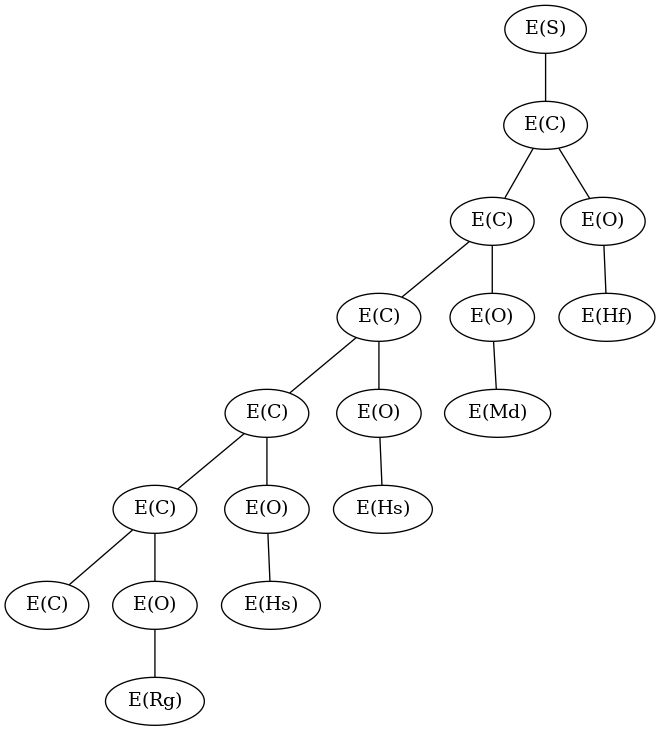
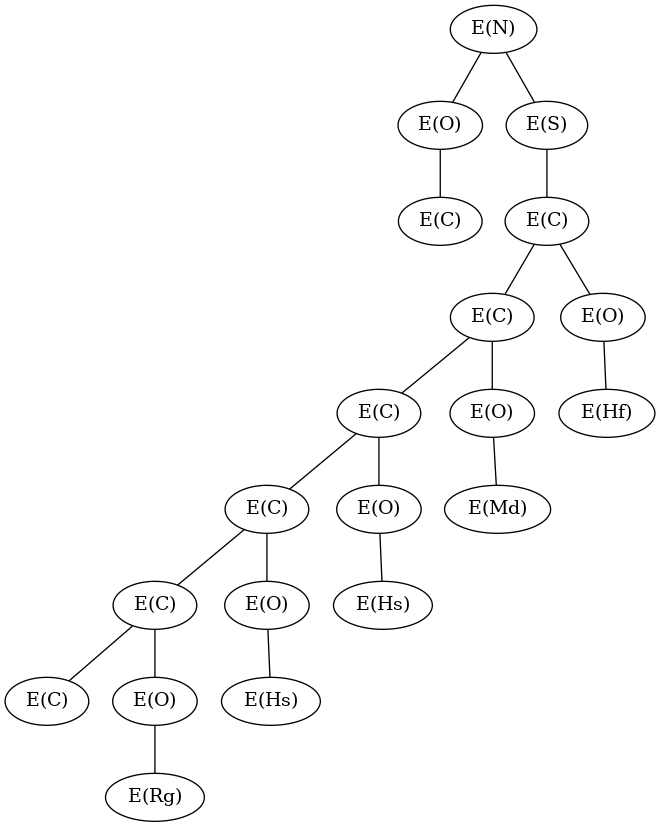
eval: add amine/pair

diff --git a/src/eval/functional_groups.rs b/src/eval/functional_groups.rs
@@ -1,9 +1,10 @@
+pub mod amine;
 pub mod borinic;
 pub mod ether;
 pub mod sulfide;
 
 use self::sulfide::Sulfide;
-use self::{borinic::BorinicAcid, ether::Ether};
+use self::{amine::Amine, borinic::BorinicAcid, ether::Ether};
 
 use super::alkane::Alkane;
 use super::atom_like::AtomLike;
@@ -11,6 +12,21 @@ use super::atoms::{AtomGraph, Atoms};
 use super::element::Element;
 use super::molecule::Molecule;
 use super::value::{Valuable, Value, Weighable};
+use petgraph::stable_graph::{EdgeIndex, NodeIndex};
+
+pub enum FgElement {
+    E(Element),
+    F(FunctionalGroup),
+}
+
+impl FgElement {
+    pub fn as_molecule(&self) -> Molecule {
+        match self {
+            FgElement::E(e) => Molecule::E(e.to_owned()),
+            FgElement::F(f) => Molecule::Fg(f.to_owned()),
+        }
+    }
+}
 
 #[derive(Debug, Clone)]
 pub enum FunctionalGroup {
@@ -18,43 +34,47 @@ pub enum FunctionalGroup {
     Ether(Ether),
     BorinicAcid(BorinicAcid),
     Sulfide(Sulfide),
-    Amine(Atoms),
+    Amine(Amine),
 }
-use petgraph::stable_graph::{EdgeIndex, NodeIndex};
 
 impl FunctionalGroup {
     pub fn new_alkane() -> Self {
         let alkane = Alkane::new();
         Self::Alkane(alkane)
     }
-    pub fn new_ether(r: Molecule) -> Self {
+    pub fn new_ether(r: FgElement) -> Self {
         let mut atoms = Atoms::new();
         let o = atoms.add_node(Molecule::E(Element::O));
-        let r_ = atoms.add_node(r);
-        atoms.add_edge(o, r_);
+        let r = atoms.add_node(r.as_molecule());
+        atoms.add_edge(o, r);
         Self::Ether(Ether(atoms))
     }
-    pub fn new_borinic_acid(r: Molecule) -> Self {
+    pub fn new_borinic_acid(r: FgElement) -> Self {
         let mut atoms = Atoms::new();
         let b = atoms.add_node(Molecule::E(Element::B));
         let o = atoms.add_node(Molecule::E(Element::O));
         let h = atoms.add_node(Molecule::E(Element::H));
-        let r_ = atoms.add_node(r);
+        let r = atoms.add_node(r.as_molecule());
         atoms.add_edge(b, o);
         atoms.add_edge(o, h);
-        atoms.add_edge(b, r_);
+        atoms.add_edge(b, r);
         Self::BorinicAcid(BorinicAcid(atoms))
     }
-    pub fn new_sulfide(r: Molecule) -> Self {
+    pub fn new_sulfide(r: FgElement) -> Self {
         let mut atoms = Atoms::new();
         let s = atoms.add_node(Molecule::E(Element::S));
-        let r_ = atoms.add_node(r);
-        atoms.add_edge(s, r_);
+        let r = atoms.add_node(r.as_molecule());
+        atoms.add_edge(s, r);
         Self::Sulfide(Sulfide(atoms))
     }
-    pub fn new_amine() -> Self {
-        let amine = Atoms::new();
-        Self::Amine(amine)
+    pub fn new_amine(r1: FgElement, r2: FgElement) -> Self {
+        let mut atoms = Atoms::new();
+        let n = atoms.add_node(Molecule::E(Element::N));
+        let r1 = atoms.add_node(r1.as_molecule());
+        let r2 = atoms.add_node(r2.as_molecule());
+        atoms.add_edge(n, r1);
+        atoms.add_edge(n, r2);
+        Self::Amine(Amine(atoms))
     }
 
     fn unwrap(&self) -> &AtomGraph {
@@ -62,7 +82,7 @@ impl FunctionalGroup {
             Self::Ether(a) => a.0.atoms(),
             Self::BorinicAcid(a) => a.0.atoms(),
             Self::Sulfide(a) => a.0.atoms(),
-            Self::Amine(a) => a.atoms(),
+            Self::Amine(a) => a.0.atoms(),
             Self::Alkane(a) => a.chain.atoms(),
         }
     }
@@ -108,6 +128,18 @@ impl AtomLike for FunctionalGroup {
     }
 }
 
+impl Weighable for FunctionalGroup {
+    fn atomic_weight(&self) -> i64 {
+        match self {
+            Self::Alkane(alk) => alk.atomic_weight(),
+            Self::Ether(eth) => eth.atomic_weight(),
+            Self::BorinicAcid(bor) => bor.atomic_weight(),
+            Self::Sulfide(sulf) => sulf.atomic_weight(),
+            Self::Amine(am) => am.atomic_weight(),
+        }
+    }
+}
+
 impl Valuable for FunctionalGroup {
     fn value(&self) -> Value {
         match self {
@@ -115,19 +147,7 @@ impl Valuable for FunctionalGroup {
             Self::Ether(eth) => eth.value(),
             Self::BorinicAcid(bor) => bor.value(),
             Self::Sulfide(sul) => sul.value(),
-            Self::Amine(_) => todo!(),
-        }
-    }
-}
-
-impl Weighable for FunctionalGroup {
-    fn atomic_weight(&self) -> i64 {
-        match self {
-            Self::Alkane(_alk) => todo!(),
-            Self::Ether(eth) => eth.atomic_weight(),
-            Self::BorinicAcid(bor) => bor.atomic_weight(),
-            Self::Sulfide(_sulf) => todo!(),
-            Self::Amine(_am) => todo!(),
+            Self::Amine(ami) => ami.value(),
         }
     }
 }

diff --git a/src/main.rs b/src/main.rs
@@ -9,7 +9,8 @@ use petgraph::dot::{self, Config};
 
 use crate::eval::alkane::Alkane;
 use crate::eval::atom_like::AtomLike;
-use crate::eval::functional_groups::FunctionalGroup;
+use crate::eval::functional_groups::amine::Amine;
+use crate::eval::functional_groups::{FgElement, FunctionalGroup};
 use crate::eval::{element::Element, molecule::Molecule};
 
 fn main() {
@@ -39,13 +40,13 @@ fn main() {
     // dbg!(&eth.value());
     // dbg!(&bor.value());
 
-    let h = FunctionalGroup::new_ether(Molecule::E(Element::Hf));
-    let e = FunctionalGroup::new_ether(Molecule::E(Element::Md));
-    let l = FunctionalGroup::new_ether(Molecule::E(Element::Hs));
-    let o = FunctionalGroup::new_ether(Molecule::E(Element::Rg));
+    let h = FunctionalGroup::new_ether(FgElement::E(Element::Hf));
+    let e = FunctionalGroup::new_ether(FgElement::E(Element::Md));
+    let l = FunctionalGroup::new_ether(FgElement::E(Element::Hs));
+    let o = FunctionalGroup::new_ether(FgElement::E(Element::Rg));
 
-    let mut hello = Alkane::new_n_alkane(5);
-    hello.fill(vec![
+    let mut alk = Alkane::new_n_alkane(5);
+    alk.fill(vec![
         AlkaneElement::F(h.clone()),
         AlkaneElement::F(e.clone()),
         AlkaneElement::F(l.clone()),
@@ -53,11 +54,13 @@ fn main() {
         AlkaneElement::F(o.clone()),
     ]);
 
-    let sulfide = FunctionalGroup::new_sulfide(Molecule::Fg(FunctionalGroup::Alkane(hello)));
-    dbg!(sulfide.value());
+    let hello = FunctionalGroup::new_sulfide(FgElement::F(FunctionalGroup::Alkane(alk)));
+    let six = FunctionalGroup::new_ether(FgElement::E(Element::C));
 
+    let amine = FunctionalGroup::new_amine(FgElement::F(six), FgElement::F(hello));
+    dbg!(&amine.value());
     println!(
         "{:?}",
-        dot::Dot::with_config(&sulfide.flatten().atoms(), &dot_config)
+        dot::Dot::with_config(&amine.flatten().atoms(), &dot_config)
     );
 }

diff --git a/src/eval/functional_groups/amine.rs b/src/eval/functional_groups/amine.rs
@@ -8,16 +8,28 @@ use crate::eval::{
 };
 
 #[derive(Debug, Clone)]
-pub struct Ether(pub Atoms);
+pub struct Amine(pub Atoms);
 
-impl Valuable for Ether {
+impl Valuable for Amine {
     fn value(&self) -> Value {
-        // get the sum of the atomic numbers
-        Value::Number(self.atomic_weight())
+        // turn this into a pair
+        // the smaller-indexed molecule is the first of the pair
+        // the larger-indexed molecule is the second of the pair
+        let molecules: Vec<&Molecule> = self
+            .0
+            .atoms()
+            .neighbors(self.0.head)
+            .map(|atom| self.0.atoms().node_weight(atom).unwrap())
+            .collect();
+        let Some(Molecule::Fg(p1)) = molecules.first() else {panic!("failed to get first of pair")};
+        let Some(Molecule::Fg(p2)) = molecules.last() else {panic!("failed to get second of pair")};
+        let p1 = p1.value();
+        let p2 = p2.value();
+        Value::Pair((Box::new(p1), Box::new(p2)))
     }
 }
 
-impl AtomLike for Ether {
+impl AtomLike for Amine {
     fn get_atoms(&self) -> &Atoms {
         &self.0
     }
@@ -39,7 +51,7 @@ impl AtomLike for Ether {
     }
 }
 
-impl Weighable for Ether {
+impl Weighable for Amine {
     fn atomic_weight(&self) -> i64 {
         let atoms = &self.0;
         atoms

diff --git a/src/eval/functional_groups/sulfide.rs b/src/eval/functional_groups/sulfide.rs
@@ -12,17 +12,6 @@ use super::FunctionalGroup;
 #[derive(Debug, Clone)]
 pub struct Sulfide(pub Atoms);
 
-impl Weighable for Sulfide {
-    fn atomic_weight(&self) -> i64 {
-        let atoms = &self.0;
-        atoms
-            .atoms()
-            .neighbors(atoms.head)
-            .map(|neighbor| atoms.atoms().node_weight(neighbor).unwrap().atomic_weight())
-            .sum()
-    }
-}
-
 impl Valuable for Sulfide {
     fn value(&self) -> Value {
         let mut chars = Vec::new();
@@ -90,5 +79,16 @@ impl AtomLike for Sulfide {
 
     fn add_edge(&mut self, m: NodeIndex, n: NodeIndex) -> EdgeIndex {
         self.0.add_edge(m, n)
+    }
+}
+
+impl Weighable for Sulfide {
+    fn atomic_weight(&self) -> i64 {
+        let atoms = &self.0;
+        atoms
+            .atoms()
+            .neighbors(atoms.head)
+            .map(|neighbor| atoms.atoms().node_weight(neighbor).unwrap().atomic_weight())
+            .sum()
     }
 }

diff --git a/src/eval/alkane.rs b/src/eval/alkane.rs
@@ -9,6 +9,7 @@ use super::atoms::Atoms;
 use super::element::Element;
 use super::functional_groups::FunctionalGroup;
 use super::molecule::Molecule;
+use super::value::Weighable;
 
 #[derive(Debug, Clone)]
 pub enum AlkaneElement {
@@ -196,5 +197,21 @@ impl AtomLike for Alkane {
 
     fn add_edge(&mut self, m: NodeIndex, n: NodeIndex) -> EdgeIndex {
         self.chain.add_edge(m, n)
+    }
+}
+
+impl Weighable for Alkane {
+    fn atomic_weight(&self) -> i64 {
+        self.chain
+            .atoms()
+            .neighbors(self.chain.head)
+            .map(|neighbor| {
+                self.chain
+                    .atoms()
+                    .node_weight(neighbor)
+                    .unwrap()
+                    .atomic_weight()
+            })
+            .sum()
     }
 }

diff --git a/src/eval/atom_like.rs b/src/eval/atom_like.rs
@@ -8,4 +8,5 @@ pub trait AtomLike {
     fn flatten(&self) -> Atoms;
     fn add_node(&mut self, m: Molecule) -> NodeIndex;
     fn add_edge(&mut self, m: NodeIndex, n: NodeIndex) -> EdgeIndex;
+    // fn atomic_weight(&self) -> i64;
 }

diff --git a/src/eval/value.rs b/src/eval/value.rs
@@ -2,6 +2,7 @@ use std::collections::HashMap;
 
 #[derive(Debug, Clone)]
 pub enum Value {
+    None,
     Number(i64),
     Boolean(bool),
     String(Vec<u8>),
